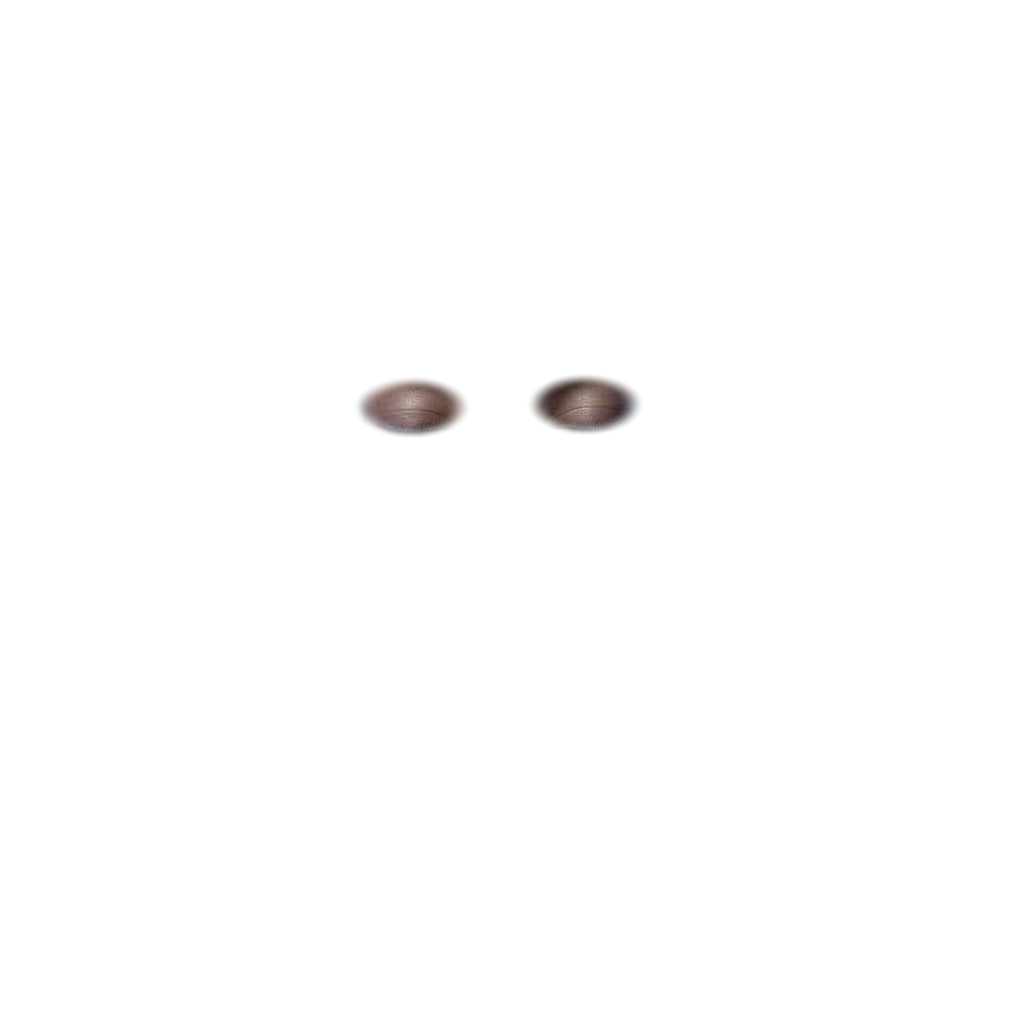
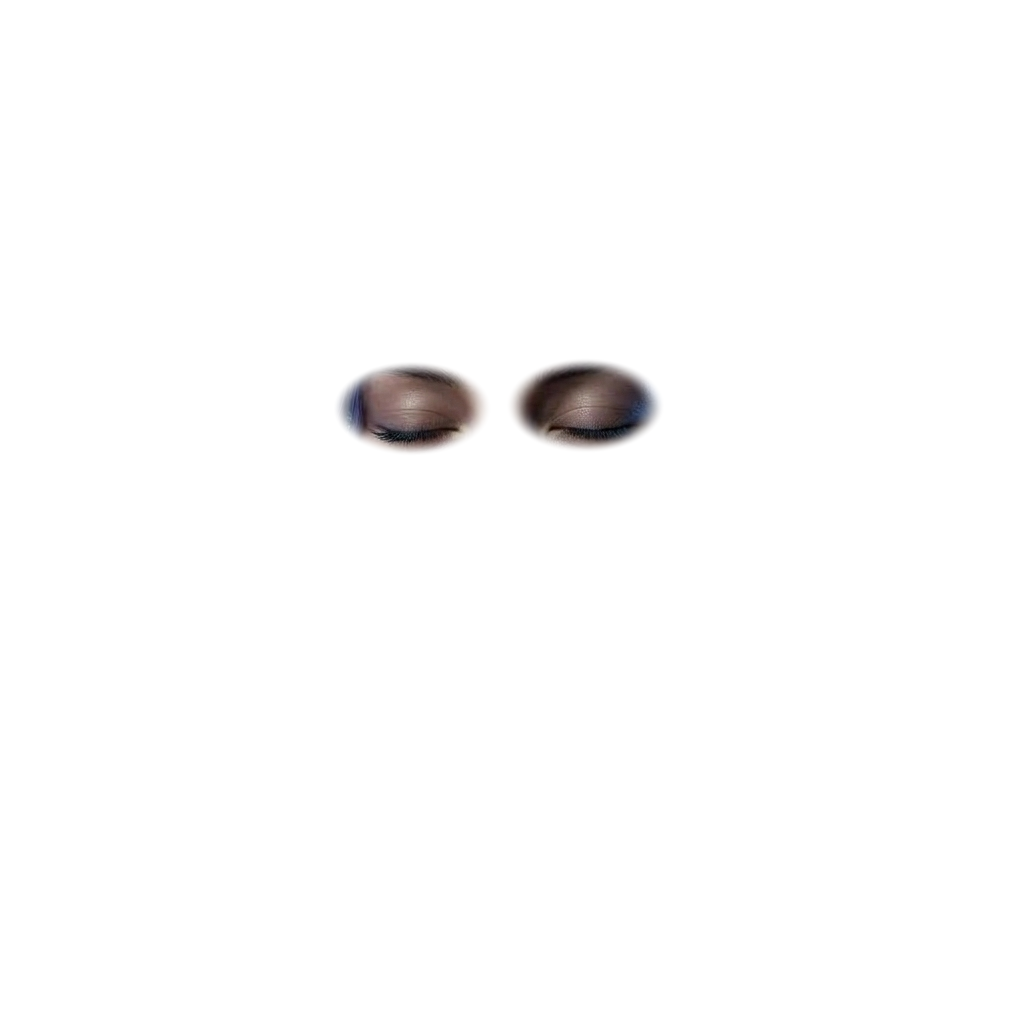
fix: align talking mouth and eye blinking with full lower-jaw and eye-socket coverage to eliminate ghosting

Changed region(s): [[0.3125, 0.3438, 0.4688, 0.4375], [0.5, 0.3438, 0.6562, 0.4375]]

diff --git a/index.html b/index.html
@@ -24,8 +24,8 @@
   <!-- Font Awesome Icons -->
   <link rel="stylesheet" href="https://cdnjs.cloudflare.com/ajax/libs/font-awesome/6.4.0/css/all.min.css">
   
-  <!-- Custom Stylesheet (v27.0 with Cache-Bust) -->
-  <link rel="stylesheet" href="css/style.css?v=27.0">
+  <!-- Custom Stylesheet (v28.0 with Cache-Bust) -->
+  <link rel="stylesheet" href="css/style.css?v=28.0">
 </head>
 <body>
 
@@ -150,15 +150,15 @@
               <!-- Head Motion Wrapper: 100% Stationary - ONLY Eyes & Mouth Animate -->
               <div class="avatar-head-motion-wrap" id="avatarHeadMotionWrap">
                 <!-- Base Direct Front-Facing Cyber Neural AI Avatar -->
-                <img src="images/avatar_face.jpg" alt="Neural AI Avatar Idle" class="avatar-face-layer avatar-idle-layer active" id="avatarImgIdle">
+                <img src="images/avatar_face.jpg?v=28.0" alt="Neural AI Avatar Idle" class="avatar-face-layer avatar-idle-layer active" id="avatarImgIdle">
                 <!-- Glowing Synaptic Energy Thinking Layer -->
-                <img src="images/avatar_cyber_thinking.png" alt="Neural AI Avatar Thinking" class="avatar-face-layer avatar-thinking-layer" id="avatarImgThinking">
+                <img src="images/avatar_cyber_thinking.png?v=28.0" alt="Neural AI Avatar Thinking" class="avatar-face-layer avatar-thinking-layer" id="avatarImgThinking">
                 <!-- Photorealistic Speaking Mouth Layers (Seamlessly Feathered on Cyber Avatar) -->
-                <img src="images/avatar_cyber_mouth_subtle.png" alt="Neural AI Avatar Mouth Subtle" class="avatar-face-layer avatar-mouth-layer avatar-mouth-subtle" id="avatarMouthSubtle">
-                <img src="images/avatar_cyber_mouth_open.png" alt="Neural AI Avatar Mouth Open" class="avatar-face-layer avatar-mouth-layer avatar-speaking-layer" id="avatarImgSpeaking">
-                <img src="images/avatar_cyber_mouth_o.png" alt="Neural AI Avatar Mouth O" class="avatar-face-layer avatar-mouth-layer avatar-mouth-o" id="avatarMouthO">
+                <img src="images/avatar_cyber_mouth_subtle.png?v=28.0" alt="Neural AI Avatar Mouth Subtle" class="avatar-face-layer avatar-mouth-layer avatar-mouth-subtle" id="avatarMouthSubtle">
+                <img src="images/avatar_cyber_mouth_open.png?v=28.0" alt="Neural AI Avatar Mouth Open" class="avatar-face-layer avatar-mouth-layer avatar-speaking-layer" id="avatarImgSpeaking">
+                <img src="images/avatar_cyber_mouth_o.png?v=28.0" alt="Neural AI Avatar Mouth O" class="avatar-face-layer avatar-mouth-layer avatar-mouth-o" id="avatarMouthO">
                 <!-- Natural Eye Blinking Layer (Exact Eyelid Alignment on Cyber Avatar) -->
-                <img src="images/avatar_cyber_eyes_blink.png" alt="Neural AI Avatar Eyes" class="avatar-face-layer avatar-eyes-layer" id="avatarImgEyes">
+                <img src="images/avatar_cyber_eyes_blink.png?v=28.0" alt="Neural AI Avatar Eyes" class="avatar-face-layer avatar-eyes-layer" id="avatarImgEyes">
               </div>
 
               <!-- HUD Cyber Overlay Badges -->
@@ -1327,6 +1327,6 @@
   </div>
 
   <!-- Javascript -->
-  <script src="js/app.js?v=27.0"></script>
+  <script src="js/app.js?v=28.0"></script>
 </body>
 </html>
